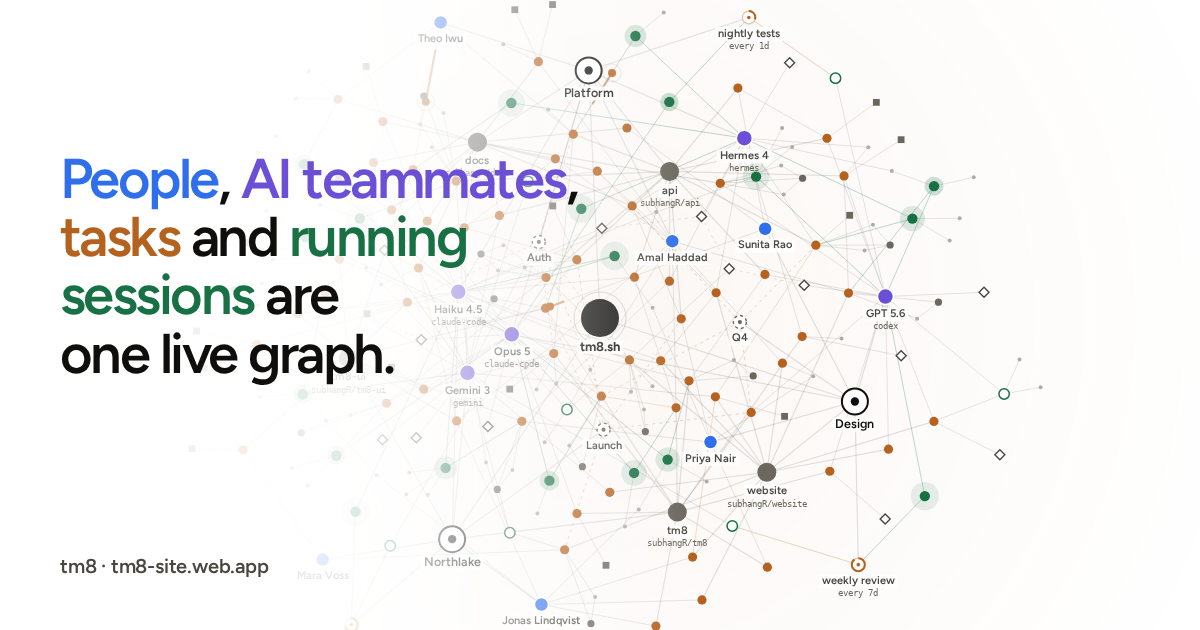
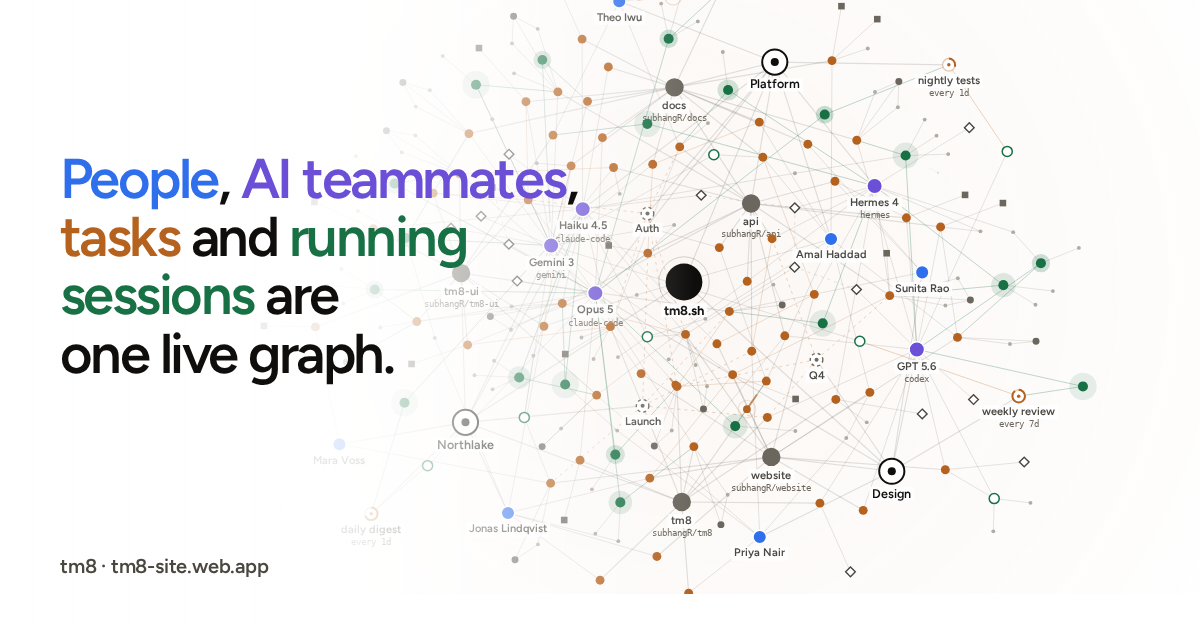
website: the graph as the card composition, in motion for everyone
The section takes the social card's layout on the web: a full-bleed
stage, the multicolor statement at the left over a theme-aware fade,
the caption under it, the mesh centred to the right. Phones stack the
text above the canvas. Light and dark both drawn from tokens.

Motion is no longer switched off by prefers-reduced-motion: the graph
grows for everyone, in a calm form (no pulses, packets or drift) when
the preference is set, and a Pause/Play control sits on the stage.
The record keeps growing through the hold (new turns, tasks and
sessions) so it is never still; a ping rings from the server in the
first seconds; a slow drift keeps the settled mesh breathing.

Labelled nodes keep a wider margin from the edges. og.png regenerated.

Claude-Session: https://claude.ai/code/session_01GeF54BoQVqTGvdTWMFZu9x

diff --git a/website/mesh.js b/website/mesh.js
@@ -8,7 +8,8 @@
   var cv = document.querySelector('[data-mesh]');
   if (!cv) return;
   var cap = document.querySelector('[data-mesh-cap]');
-  var reduced = window.matchMedia && window.matchMedia('(prefers-reduced-motion: reduce)').matches;
+  var calm = !!(window.matchMedia && window.matchMedia('(prefers-reduced-motion: reduce)').matches);
+  var playBtn = document.querySelector('[data-mesh-play]');
   var ctx = cv.getContext('2d');
 
   /* ---------- deterministic randomness, so every visitor sees the same graph ---------- */
@@ -80,7 +81,7 @@
     'release.txt', 'schema.sql', 'brief.md', 'audit.csv', 'notes.md', 'diff.patch', 'plan.md', 'evidence.png'];
 
   /* ---------- build the graph and its schedule. Slow at first, then it pours in. ---------- */
-  var N = [], E = [], PATHS = [], phone = false, LOOP = 72, HOLD = 70, FULL = 58;
+  var N = [], E = [], PATHS = [], phone = false, LOOP = 68, HOLD = 66, FULL = 62;
   function build() {
     var rnd = prng(phone ? 7 : 3), i, j, n;
     N = []; E = []; PATHS = [];
@@ -154,6 +155,18 @@
       link(spaces[i % nSp], co, 'contains', 1);
       for (j = 0; j < (P ? 3 : 5); j++) { var tk4 = tasks[Math.floor(rnd() * nTask)]; if (tk4.coll !== co.id) { tk4.coll = co.id; link(co, tk4, 'contains', 1); } }
     }
+    /* and it keeps growing: the record never holds still */
+    for (i = 0; i < (P ? 6 : 12); i++) {
+      var when = 54.5 + i * (P ? 1.6 : 0.85);
+      if (i % 4 === 3) {
+        var ntk = add('task', TASKS[(nTask + i) % TASKS.length], when, projects[i % nProj], { v: 1, who: mates[i % nMate] });
+        link(ntk, projects[i % nProj], 'in_project', 1); link(ntk, mates[i % nMate], 'assigned_to', 1);
+        var nss = add('session', mates[i % nMate].title, when + 0.5, ntk, { sub: mates[i % nMate].sub, live: true, task: ntk.id });
+        link(nss, ntk, 'working_on', 1); link(nss, mates[i % nMate], 'runs as'); PATHS.push([mates[i % nMate].id, ntk.id, nss.id]);
+      } else {
+        var hs = sessions[(i * 5) % nSess], nm = add('message', 'turn', when, hs); link(nm, hs, 'anchored_to', 1);
+      }
+    }
     N.forEach(function (q) { q.r = KIND[q.kind].r; q.mass = KIND[q.kind].mass; });
   }
 
@@ -173,6 +186,7 @@
     [48.5, 'Loops keep time in the graph. Every firing spawns a session with a triggered_by edge, so the fan is the run history.'],
     [51.5, 'Collections gather what belongs together.'],
     [54, 'One connected graph. The board, the tree, and the context an agent reads are all drawn from it.'],
+    [59, 'Still growing. Every command writes another entry, and nothing is ever removed.'],
     [HOLD, '']
   ];
 
@@ -182,10 +196,10 @@
     tokens();
     var cssW = cv.parentNode.clientWidth || 1160;
     phone = cssW < 640;
-    W = cssW; H = phone ? Math.round(cssW * 1.3) : Math.round(cssW * 0.58);
+    W = cssW; H = phone ? Math.round(cssW * 1.3) : Math.round(Math.max(560, Math.min(760, cssW * 0.52)));
     if (H < 420) H = 420;
-    S = phone ? 0.8 : Math.max(0.82, Math.min(1, cssW / 1160));
-    CX = W / 2; CY = H / 2;
+    S = phone ? 0.8 : Math.max(0.82, Math.min(1.05, cssW / 1240));
+    CX = phone ? W / 2 : W * 0.57; CY = H / 2;
     var dpr = Math.min(2, window.devicePixelRatio || 1);
     cv.width = Math.round(W * dpr); cv.height = Math.round(H * dpr);
     cv.style.height = H + 'px';
@@ -232,8 +246,9 @@
       for (i = 0; i < alive.length; i++) {
         a = alive[i];
         if (a.kind === 'server') { a.x = CX; a.y = CY; a.vx = a.vy = 0; continue; }
+        if (!calm) { a.vx += Math.sin(simT * 0.7 + a.id * 1.3) * 0.05 * S / a.mass; a.vy += Math.cos(simT * 0.5 + a.id * 0.7) * 0.05 * S / a.mass; }
         a.vx += (CX - a.x) * G / Math.sqrt(a.mass); a.vy += (CY - a.y) * G * (phone ? 0.7 : 2.6) / Math.sqrt(a.mass);
-        var m = 22 * S + a.r;
+        var m = (KIND[a.kind].label ? 46 : 22) * S + a.r;
         if (a.x < m) a.vx += (m - a.x) * 0.08; if (a.x > W - m) a.vx -= (a.x - W + m) * 0.08;
         if (a.y < m) a.vy += (m - a.y) * 0.08; if (a.y > H - m) a.vy -= (a.y - H + m) * 0.08;
         a.vx *= DAMP; a.vy *= DAMP;
@@ -265,6 +280,10 @@
       ctx.fillStyle = gr; ctx.fillRect(0, 0, W, H);
     }
     ctx.globalAlpha = fade;
+    if (t < 2.4 && !calm) {
+      var ping = (t * 0.9) % 1;
+      ctx.beginPath(); ctx.arc(CX, CY, (24 + ping * 70) * S, 0, 6.2832); ctx.strokeStyle = rgba(T.brand, 0.45 * (1 - ping)); ctx.lineWidth = 1.5; ctx.stroke();
+    }
     var hov = hover >= 0 ? N[hover] : null, hn = {};
     if (hov) { hn[hov.id] = 1; E.forEach(function (e) { if (e.a === hov.id) hn[e.b] = 1; if (e.b === hov.id) hn[e.a] = 1; }); }
     /* edges */
@@ -290,7 +309,7 @@
       }
     }
     /* packets: a message goes to the task, then into the session as its next turn */
-    if (t >= 31 && t < HOLD && PATHS.length && !reduced) {
+    if (t >= 31 && t < HOLD && PATHS.length && !calm) {
       var slot = Math.floor(t / 0.55);
       for (var q = 0; q < 4; q++) {
         var sl = slot - q, u = (t - sl * 0.55) / 2.0; if (u < 0 || u > 1) continue;
@@ -313,7 +332,7 @@
       var K = KIND[a.kind], r = a.r * S * (0.3 + 0.7 * k), c = tone(K.tone), dim2 = hov && !hn[a.id] ? 0.3 : 1;
       ctx.globalAlpha = fade * k * dim2;
       if (a.kind === 'session' && a.live) {
-        var pulse = reduced ? 0.5 : 0.5 + 0.5 * Math.sin(t * 3.4 + a.id);
+        var pulse = calm ? 0.5 : 0.5 + 0.5 * Math.sin(t * 3.4 + a.id);
         ctx.beginPath(); ctx.arc(a.x, a.y, r + (4 + 5 * pulse) * S, 0, 6.2832); ctx.fillStyle = rgba(T.run, 0.10 + 0.12 * (1 - pulse)); ctx.fill();
       }
       if (a.kind === 'server') {
@@ -326,7 +345,7 @@
         ctx.beginPath(); ctx.arc(a.x, a.y, r * 0.32, 0, 6.2832); ctx.fillStyle = c; ctx.fill();
       } else if (a.kind === 'loop') {
         ctx.beginPath(); ctx.arc(a.x, a.y, r, 0, 6.2832); ctx.fillStyle = T.card; ctx.fill(); ctx.strokeStyle = rgba(c, 0.35); ctx.lineWidth = 1.4; ctx.stroke();
-        var sweep = reduced ? 0.7 : ((t * 0.35 + a.id * 0.2) % 1);
+        var sweep = calm ? 0.7 : ((t * 0.35 + a.id * 0.2) % 1);
         ctx.beginPath(); ctx.arc(a.x, a.y, r, -1.5708, -1.5708 + sweep * 6.2832); ctx.strokeStyle = c; ctx.lineWidth = 2; ctx.stroke();
         ctx.beginPath(); ctx.arc(a.x, a.y, 1.8 * S, 0, 6.2832); ctx.fillStyle = c; ctx.fill();
       } else if (a.kind === 'session' && !a.live) {
@@ -376,7 +395,7 @@
   }
 
   /* ---------- run ---------- */
-  var raf = null, t0 = null, onScreen = false, last = 0, settled = false;
+  var raf = null, t0 = null, onScreen = false, last = 0, paused = false;
   function frame(now) {
     if (t0 === null) t0 = now - last * 1000;
     var t = ((now - t0) / 1000) % LOOP;
@@ -385,22 +404,21 @@
     advance(t); draw(t);
     raf = onScreen ? requestAnimationFrame(frame) : null;
   }
-  function run() { if (raf === null && !reduced) { onScreen = true; t0 = null; raf = requestAnimationFrame(frame); } }
+  function run() { if (raf === null && !paused) { onScreen = true; t0 = null; raf = requestAnimationFrame(frame); } }
   function stop() { onScreen = false; if (raf) { cancelAnimationFrame(raf); raf = null; } }
-  /* the finished graph, computed in small idle slices so nothing blocks the page */
-  function settle(done) {
-    reset(); while (born < N.length) { insert(N[born]); born++; }
-    var left = 260;
-    (function slice() { physics(14); left -= 14; if (left > 0) setTimeout(slice, 0); else { settled = true; last = FULL; done(); } })();
-  }
   function still(t) { reset(); for (var s = 0; s <= t; s += 0.5) advance(s); last = t; draw(t); }
   function pick(x, y) {
     var best = -1, bd = 16 * S;
     for (var i = 0; i < alive.length; i++) { var a = alive[i], d = Math.hypot(a.x - x, a.y - y) - a.r * S; if (d < bd) { bd = d; best = a.id; } }
     return best;
   }
-  layout(); reset();
-  if (!reduced) { advance(0); draw(0); }
+  layout(); reset(); advance(0); draw(0);
+  if (playBtn) {
+    playBtn.addEventListener('click', function () {
+      paused = !paused; playBtn.setAttribute('aria-pressed', paused ? 'true' : 'false'); playBtn.textContent = paused ? 'Play' : 'Pause';
+      if (paused) stop(); else run();
+    });
+  }
   function point(ev) {
     var r = cv.getBoundingClientRect(), h = pick(ev.clientX - r.left, ev.clientY - r.top);
     if (h !== hover) { hover = h; cv.style.cursor = h >= 0 ? 'pointer' : ''; if (raf === null) draw(last); }
@@ -419,12 +437,9 @@
   });
   if ('IntersectionObserver' in window) {
     new IntersectionObserver(function (es) {
-      es.forEach(function (e) {
-        if (!e.isIntersecting) { stop(); return; }
-        if (reduced) { if (!settled) settle(function () { draw(FULL); }); } else run();
-      });
+      es.forEach(function (e) { if (e.isIntersecting) run(); else stop(); });
     }, { threshold: 0.12 }).observe(cv);
-  } else if (reduced) settle(function () { draw(FULL); }); else run();
+  } else run();
   /* capture hooks, harmless on the live page */
   window.__meshNodes = function () { return alive.map(function (n) { return { id: n.id, kind: n.kind, x: n.x, y: n.y, title: n.title }; }); };
   window.__meshSeek = function (t, hx, hy) { stop(); still(t); if (hx != null) { hover = pick(hx, hy); draw(t); } return alive.length; };

diff --git a/website/styles.css b/website/styles.css
@@ -8,7 +8,7 @@
   --ink: #0F0E0C; --ink-2: #4A4741; --ink-3: #6B675E; --ink-4: #B0ACA3;
   --brand: #B5621F; --brand-2: #96501A; --brand-soft: #F8EBDD;
   --peach: #FBEADB; --mint: #E4F3E9; --lilac: #ECE7F8; --sky: #E4EEF8; --butter: #FBF2D7;
-  --run: #187045; --run-soft: rgba(31, 138, 84, 0.12); --block: #B33D2A; --block-soft: rgba(192, 67, 47, 0.10); --info: #2F6FEB; --mate: #6B4FD6;
+  --run: #187045; --run-soft: rgba(31, 138, 84, 0.12); --block: #B33D2A; --block-soft: rgba(192, 67, 47, 0.10); --info: #2F6FEB; --mate: #6B4FD6; --mesh-fade: linear-gradient(90deg, rgba(255,255,255,0.97) 0, rgba(255,255,255,0.90) 30%, rgba(255,255,255,0) 58%);
   --c-mara: #2F6FEB; --c-theo: #8B4FE8; --c-juniper: #0AA86C; --c-callisto: #F2711C; --c-keeper: #8A8478;
   --dark: #0B0B0A; --dark-2: #151412; --dark-line: #2A2925; --dark-ink: #F2EFE9; --dark-dim: #9A958B;
   --code-bg: #141311; --code-ink: #E7E2D8; --code-dim: #8C877D; --code-accent: #E0A45A; --code-run: #6FD39A;
@@ -28,7 +28,7 @@
     --ink: #F2EFE9; --ink-2: #C6C1B8; --ink-3: #8F8A81; --ink-4: #5B5850;
     --brand: #E0A45A; --brand-2: #C98A3E; --brand-soft: #3A2A1C;
     --peach: #3A2A1C; --mint: #1B3126; --lilac: #2A2438; --sky: #1E2A36; --butter: #35301E;
-    --run: #5CB381; --run-soft: rgba(92, 179, 129, 0.17); --block: #DA7D6A; --block-soft: rgba(218, 125, 106, 0.16); --info: #6F9FF0; --mate: #A99BF2;
+    --run: #5CB381; --run-soft: rgba(92, 179, 129, 0.17); --block: #DA7D6A; --block-soft: rgba(218, 125, 106, 0.16); --info: #6F9FF0; --mate: #A99BF2; --mesh-fade: linear-gradient(90deg, rgba(15,15,14,0.97) 0, rgba(15,15,14,0.90) 30%, rgba(15,15,14,0) 58%);
     --sh-frame: 0 1px 2px rgba(0, 0, 0, 0.4), 0 30px 70px rgba(0, 0, 0, 0.5);
     --sh-card: 0 1px 2px rgba(0, 0, 0, 0.3), 0 10px 28px rgba(0, 0, 0, 0.35);
     color-scheme: dark;
@@ -39,7 +39,7 @@
   --ink: #F2EFE9; --ink-2: #C6C1B8; --ink-3: #8F8A81; --ink-4: #5B5850;
   --brand: #E0A45A; --brand-2: #C98A3E; --brand-soft: #3A2A1C;
   --peach: #3A2A1C; --mint: #1B3126; --lilac: #2A2438; --sky: #1E2A36; --butter: #35301E;
-  --run: #5CB381; --run-soft: rgba(92, 179, 129, 0.17); --block: #DA7D6A; --block-soft: rgba(218, 125, 106, 0.16); --info: #6F9FF0; --mate: #A99BF2;
+  --run: #5CB381; --run-soft: rgba(92, 179, 129, 0.17); --block: #DA7D6A; --block-soft: rgba(218, 125, 106, 0.16); --info: #6F9FF0; --mate: #A99BF2; --mesh-fade: linear-gradient(90deg, rgba(15,15,14,0.97) 0, rgba(15,15,14,0.90) 30%, rgba(15,15,14,0) 58%);
   --sh-frame: 0 1px 2px rgba(0, 0, 0, 0.4), 0 30px 70px rgba(0, 0, 0, 0.5);
   --sh-card: 0 1px 2px rgba(0, 0, 0, 0.3), 0 10px 28px rgba(0, 0, 0, 0.35);
   color-scheme: dark;
@@ -704,16 +704,20 @@ html.video-mode .subs.on { opacity: 1; }
 .formcard input[type="password"] { width: 100%; font: 400 16px/1.4 var(--ui); color: var(--ink); background: var(--bg); border: 1px solid var(--line-2); border-radius: 10px; padding: 11px 12px; min-width: 0; }
 .formcard input[type="password"]:focus-visible { outline: 2px solid var(--brand); outline-offset: 1px; border-color: var(--brand); }
 
-/* the mesh: the whole product as the one graph it is stored as */
-.mesh { padding-top: calc(var(--sec) * 0.55); }
-.mesh .head { margin-bottom: 30px; }
-.mesh h2 { font-size: clamp(36px, 5vw, 66px); max-width: 17ch; letter-spacing: -0.045em; text-wrap: balance; }
-.mesh .sub { max-width: 62ch; }
+/* the mesh: the whole product as the one graph it is stored as. Full-bleed; the statement sits over a fade at the left. */
+.mesh { padding: calc(var(--sec) * 0.35) 0 calc(var(--sec) * 0.7); }
+.mstage { position: relative; width: 100%; overflow: hidden; background: var(--bg); border-top: 1px solid var(--line); border-bottom: 1px solid var(--line); }
+.mstage canvas { display: block; width: 100%; height: auto; aspect-ratio: 1440 / 749; touch-action: pan-y; }
+.mfade { position: absolute; inset: 0; z-index: 1; pointer-events: none; background: var(--mesh-fade); }
+.mtext { position: absolute; z-index: 2; left: max(24px, calc((100% - 1280px) / 2 + 24px)); top: 50%; transform: translateY(-50%); width: min(600px, 46%); pointer-events: none; }
+.mtext h2, .mtext .sub, .mtext .mcap { pointer-events: auto; }
+.mesh h2 { font: 600 clamp(34px, 4.1vw, 60px)/1.04 var(--ui); letter-spacing: -0.045em; margin: 0; max-width: 14ch; text-wrap: balance; }
+.mesh .sub { max-width: 44ch; margin-top: 16px; font-size: clamp(15px, 1.15vw, 17px); }
 .k-member { color: var(--info); } .k-mate { color: var(--mate); } .k-task { color: var(--brand); } .k-run { color: var(--run); }
-.mstage { border: 1px solid var(--line-2); border-radius: 22px; background: var(--bg); overflow: hidden; position: relative; }
-.mstage canvas { display: block; width: 100%; height: auto; aspect-ratio: 1160 / 673; touch-action: pan-y; }
-@media (max-width: 639px) { .mstage canvas { aspect-ratio: 1 / 1.3; } }
-.mcap { text-align: center; margin: 16px auto 0; max-width: 76ch; font: 500 15px/1.5 var(--ui); color: var(--ink-2); min-height: 1.5em; }
+.mcap { margin: 22px 0 0; max-width: 44ch; font: 500 14px/1.5 var(--ui); color: var(--ink-3); min-height: 3em; }
+.mplay { position: absolute; right: 16px; bottom: 14px; z-index: 3; font: 500 12px var(--ui); color: var(--ink-2); background: var(--card); border: 1px solid var(--line-2); border-radius: 999px; padding: 6px 12px; cursor: pointer; }
+.mplay:hover { color: var(--ink); border-color: var(--ink-3); }
+.mplay:focus-visible { outline: 2px solid var(--brand); outline-offset: 2px; }
 .mkey { list-style: none; margin: 16px 0 0; padding: 0; display: flex; flex-wrap: wrap; gap: 8px 20px; justify-content: center; font-size: 13px; color: var(--ink-3); }
 .mkey li { display: flex; align-items: center; gap: 7px; }
 .mkey i { width: 9px; height: 9px; border-radius: 50%; flex-shrink: 0; }
@@ -721,4 +725,14 @@ html.video-mode .subs.on { opacity: 1; }
 .mkey .i-run { background: var(--run); box-shadow: 0 0 0 3px var(--run-soft); } .mkey .i-rest { background: var(--ink-3); }
 .mkey .i-mem { width: 8px; height: 8px; border: 1.5px solid var(--ink-2); border-radius: 1px; background: var(--card); transform: rotate(45deg); }
 .mkey .i-doc { border-radius: 1px; background: var(--ink-3); }
-@media (max-width: 720px) { .mesh h2 { font-size: clamp(32px, 9.4vw, 40px); } .mcap { font-size: 14px; } .mkey { gap: 6px 14px; font-size: 12px; } }
+@media (max-width: 899px) {
+  .mstage { display: flex; flex-direction: column; border: 0; }
+  .mtext { position: static; transform: none; width: auto; padding: 0 20px 14px; text-align: center; }
+  .mesh h2 { margin: 0 auto; }
+  .mesh .sub, .mcap { margin-left: auto; margin-right: auto; }
+  .mcap { min-height: 3em; }
+  .mfade { display: none; }
+  .mstage canvas { aspect-ratio: 1 / 1.3; border-top: 1px solid var(--line); border-bottom: 1px solid var(--line); }
+  .mplay { bottom: 12px; right: 12px; }
+}
+@media (max-width: 720px) { .mesh h2 { font-size: clamp(32px, 9.4vw, 40px); } .mkey { gap: 6px 14px; font-size: 12px; } }

diff --git a/website/index.html b/website/index.html
@@ -40,11 +40,11 @@
   <meta name="twitter:image" content="https://tm8-site.web.app/assets/og.png">
 
   <link rel="stylesheet" href="/assets/fonts/fonts.css?v=3b6833dc">
-  <link rel="stylesheet" href="/styles.css?v=40d1c084">
+  <link rel="stylesheet" href="/styles.css?v=dfdfa979">
   <script src="/assets/vendor/firebase-app-compat-12.18.0.js" defer></script>
   <script src="/assets/vendor/firebase-auth-compat-12.18.0.js" defer></script>
   <script src="/app.js?v=4589f619" defer></script>
-  <script src="/mesh.js?v=bd342509" defer></script>
+  <script src="/mesh.js?v=1e3ac35f" defer></script>
 
   <script type="application/ld+json">
   {
@@ -204,15 +204,17 @@
 
 <!-- ============ the mesh ============ -->
 <section class="section mesh" id="graph">
-  <div class="wrap">
-    <div class="head center">
+  <div class="mstage">
+    <div class="mtext">
       <h2><span class="k-member">People</span>, <span class="k-mate">AI teammates</span>, <span class="k-task">tasks</span> and <span class="k-run">running sessions</span> are one live graph.</h2>
       <p class="sub">This is the whole of tm8, drawn the way it is stored. It starts with one server and grows, one truthful link at a time, into the context an agent reads. Hover anything to see what it is.</p>
+      <p class="mcap" data-mesh-cap aria-live="polite">One server. Yours, or hosted at tm8.sh.</p>
     </div>
-    <div class="mstage">
-      <canvas data-mesh role="img" aria-label="The tm8 graph assembling itself: one server, then Spaces, then people and AI teammates joining them, projects with repositories, dozens of tasks assigned to members, sessions lighting up as they run, messages travelling into sessions as their next turn, pull requests and commits recorded on their tasks, loops on a schedule and collections gathering tasks, until it is one dense connected mesh."></canvas>
-    </div>
-    <p class="mcap" data-mesh-cap aria-live="polite">One server. Yours, or hosted at tm8.sh.</p>
+    <div class="mfade" aria-hidden="true"></div>
+    <canvas data-mesh role="img" aria-label="The tm8 graph assembling itself: one server, then Spaces, then people and AI teammates joining them, projects with repositories, dozens of tasks assigned to members, sessions lighting up as they run, messages travelling into sessions as their next turn, pull requests and commits recorded on their tasks, docs, memory, loops on a schedule and collections gathering tasks, until it is one dense connected mesh that keeps growing."></canvas>
+    <button class="mplay" type="button" data-mesh-play aria-pressed="false" aria-label="Pause or play the graph animation">Pause</button>
+  </div>
+  <div class="wrap">
     <ul class="mkey" aria-label="What the colours mean">
       <li><i class="i-member"></i>person</li>
       <li><i class="i-mate"></i>AI teammate</li>

diff --git a/website/404.html b/website/404.html
@@ -7,7 +7,7 @@
   <meta name="robots" content="noindex">
   <link rel="icon" href="/assets/favicon.svg" type="image/svg+xml">
   <link rel="stylesheet" href="/assets/fonts/fonts.css">
-  <link rel="stylesheet" href="/styles.css?v=40d1c084">
+  <link rel="stylesheet" href="/styles.css?v=dfdfa979">
 </head>
 <body>
   <header class="mast">
